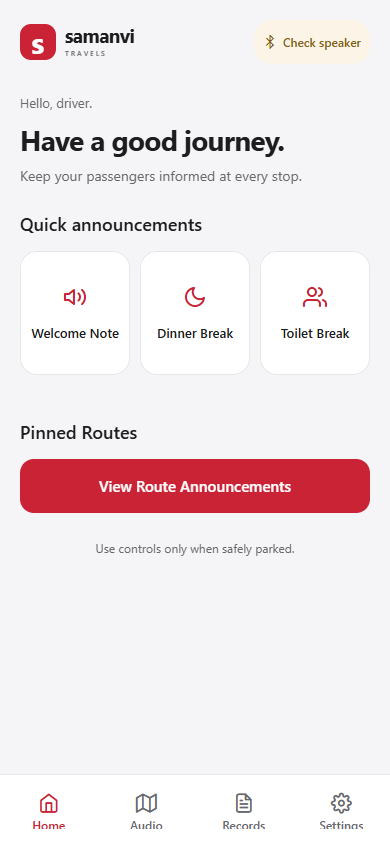
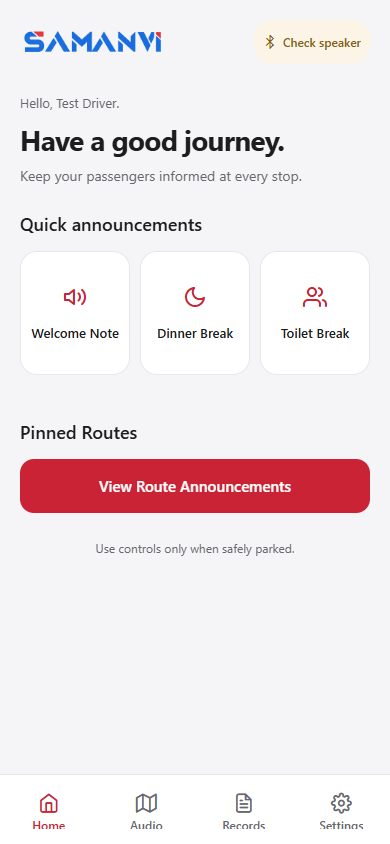
fix(mobile): refine branding login and Expo Go audio

Changed region(s): [[0.0308, 0.0308, 0.4308, 0.0924], [0.1538, 0.0924, 0.2462, 0.154]]

diff --git a/src/app/login.tsx b/src/app/login.tsx
@@ -1,4 +1,4 @@
-import { useState } from "react";
+import { useRef, useState } from "react";
 import {
   ActivityIndicator,
   KeyboardAvoidingView,
@@ -21,6 +21,10 @@ export default function LoginScreen() {
   const [error, setError] = useState<string | null>(null);
   const [busy, setBusy] = useState(false);
   const [showPassword, setShowPassword] = useState(false);
+  const scrollRef = useRef<ScrollView>(null);
+  const revealPassword = () => {
+    setTimeout(() => scrollRef.current?.scrollToEnd({ animated: true }), 250);
+  };
 
   async function submit() {
     if (!username.trim() || !password) return;
@@ -38,8 +42,17 @@ export default function LoginScreen() {
 
   return (
     <SafeAreaView style={s.screen}>
-      <KeyboardAvoidingView style={{ flex: 1 }} behavior={Platform.OS === "ios" ? "padding" : undefined}>
-        <ScrollView keyboardShouldPersistTaps="handled" contentContainerStyle={s.content}>
+      <KeyboardAvoidingView
+        style={{ flex: 1 }}
+        behavior={Platform.OS === "ios" ? "padding" : "height"}
+      >
+        <ScrollView
+          ref={scrollRef}
+          automaticallyAdjustKeyboardInsets={Platform.OS === "ios"}
+          keyboardDismissMode={Platform.OS === "ios" ? "interactive" : "on-drag"}
+          keyboardShouldPersistTaps="handled"
+          contentContainerStyle={s.content}
+        >
           <View style={s.header}>
             <Brand />
             <View style={s.routeLine}>
@@ -86,6 +99,7 @@ export default function LoginScreen() {
                   editable={!busy}
                   value={password}
                   onChangeText={setPassword}
+                  onFocus={revealPassword}
                   onSubmitEditing={() => void submit()}
                   placeholder="Enter your password"
                   placeholderTextColor={c.subtle}
@@ -119,7 +133,7 @@ export default function LoginScreen() {
 
 const s = StyleSheet.create({
   screen: { flex: 1, backgroundColor: "#F2EFE9" },
-  content: { flexGrow: 1, padding: 22, justifyContent: "center", gap: 24 },
+  content: { flexGrow: 1, padding: 22, paddingBottom: 38, justifyContent: "center", gap: 24 },
   header: { gap: 24 },
   routeLine: { height: 42, flexDirection: "row", alignItems: "center", paddingHorizontal: 4 },
   routeDot: { width: 9, height: 9, borderRadius: 5, backgroundColor: c.red },

diff --git a/src/ui/components.tsx b/src/ui/components.tsx
@@ -2,6 +2,7 @@ import React, { type ComponentProps, type PropsWithChildren } from "react";
 import {
   ActivityIndicator,
   Alert,
+  Image,
   Platform,
   Pressable,
   ScrollView,
@@ -56,15 +57,13 @@ export function Label({ children, style, ...props }: TextProps) {
 }
 export function Brand() {
   return (
-    <View style={styles.brand}>
-      <View style={styles.brandMark}>
-        <Label style={styles.brandLetter}>s</Label>
-      </View>
-      <View>
-        <Label style={styles.brandName}>samanvi</Label>
-        <Label style={styles.brandSub}>T R A V E L S</Label>
-      </View>
-    </View>
+    <Image
+      accessibilityLabel="Samanvi Travels"
+      accessibilityRole="image"
+      resizeMode="contain"
+      source={require("../../assets/samv_logo.png")}
+      style={styles.brandLogo}
+    />
   );
 }
 export function Card({
@@ -567,28 +566,7 @@ export const styles = StyleSheet.create({
   },
   kicker: { fontSize: 13, color: c.muted },
   caption: { fontSize: 13, lineHeight: 20, color: c.muted },
-  brand: { flexDirection: "row", alignItems: "center", gap: 9 },
-  brandMark: {
-    width: 36,
-    height: 36,
-    borderRadius: 11,
-    backgroundColor: c.red,
-    alignItems: "center",
-    justifyContent: "center",
-  },
-  brandLetter: {
-    color: c.surface,
-    fontWeight: "700",
-    fontSize: 29,
-    lineHeight: 34,
-  },
-  brandName: {
-    fontSize: 19,
-    fontWeight: "700",
-    letterSpacing: -0.6,
-    lineHeight: 23,
-  },
-  brandSub: { color: c.muted, fontSize: 7, lineHeight: 13, fontWeight: "600" },
+  brandLogo: { width: 146, height: 36 },
   card: {
     borderRadius: layout.radius,
     borderWidth: 1,

diff --git a/src/state/playback.tsx b/src/state/playback.tsx
@@ -14,6 +14,7 @@ import {
   useAudioPlayerStatus,
 } from "expo-audio";
 import { activateKeepAwakeAsync, deactivateKeepAwake } from "expo-keep-awake";
+import Constants from "expo-constants";
 import AudioRoute from "../../modules/samanvi-audio-route";
 import { readableError, type AudioAsset } from "../domain/catalog";
 import {
@@ -31,6 +32,8 @@ const unknownOutput: Output = {
   name: "Check on your phone",
   supported: false,
 };
+const supportsNativeBackgroundPlayback =
+  Platform.OS !== "web" && Constants.expoGoConfig == null;
 type Phase = PlaybackPhase;
 type PlaybackContextValue = {
   active: AudioAsset | null;
@@ -72,7 +75,7 @@ export function PlaybackProvider({ children }: PropsWithChildren) {
   }, []);
   const lockScreen = useCallback(
     (enabled: boolean, audio?: AudioAsset) => {
-      if (Platform.OS !== "web")
+      if (supportsNativeBackgroundPlayback)
         player.setActiveForLockScreen(
           enabled,
           audio ? { title: audio.title, artist: "Samanvi Travels" } : undefined,
@@ -226,7 +229,7 @@ export function PlaybackProvider({ children }: PropsWithChildren) {
         await setAudioModeAsync({
           playsInSilentMode: true,
           allowsRecording: false,
-          shouldPlayInBackground: true,
+          shouldPlayInBackground: supportsNativeBackgroundPlayback,
           interruptionMode: "doNotMix",
         });
         if (!gate.current.isCurrent(request)) return false;

diff --git a/src/app/(tabs)/index.tsx b/src/app/(tabs)/index.tsx
@@ -13,6 +13,7 @@ import {
 } from "../../ui/components";
 import { RouteCard } from "../../ui/route-card";
 import { useLibrary } from "../../state/library";
+import { useAuth } from "../../state/auth";
 import { colors as c } from "../../ui/theme";
 
 const quick: { key: string; title: string; icon: IconName }[] = [
@@ -22,6 +23,7 @@ const quick: { key: string; title: string; icon: IconName }[] = [
 ];
 export default function Home() {
   const { catalog } = useLibrary();
+  const { session } = useAuth();
   const pinned = catalog?.routes.filter((route) => route.isPinned) ?? [];
   const start = useStartAnnouncement();
   const { fontScale } = useWindowDimensions();
@@ -32,7 +34,7 @@ export default function Home() {
         <OutputBadge />
       </View>
       <View style={s.heading}>
-        <Label style={s.kicker}>Hello, driver.</Label>
+        <Label style={s.kicker}>Hello, {session?.user.displayName?.trim() || "Driver"}.</Label>
         <Label accessibilityRole="header" style={s.title}>
           Have a good journey.
         </Label>
